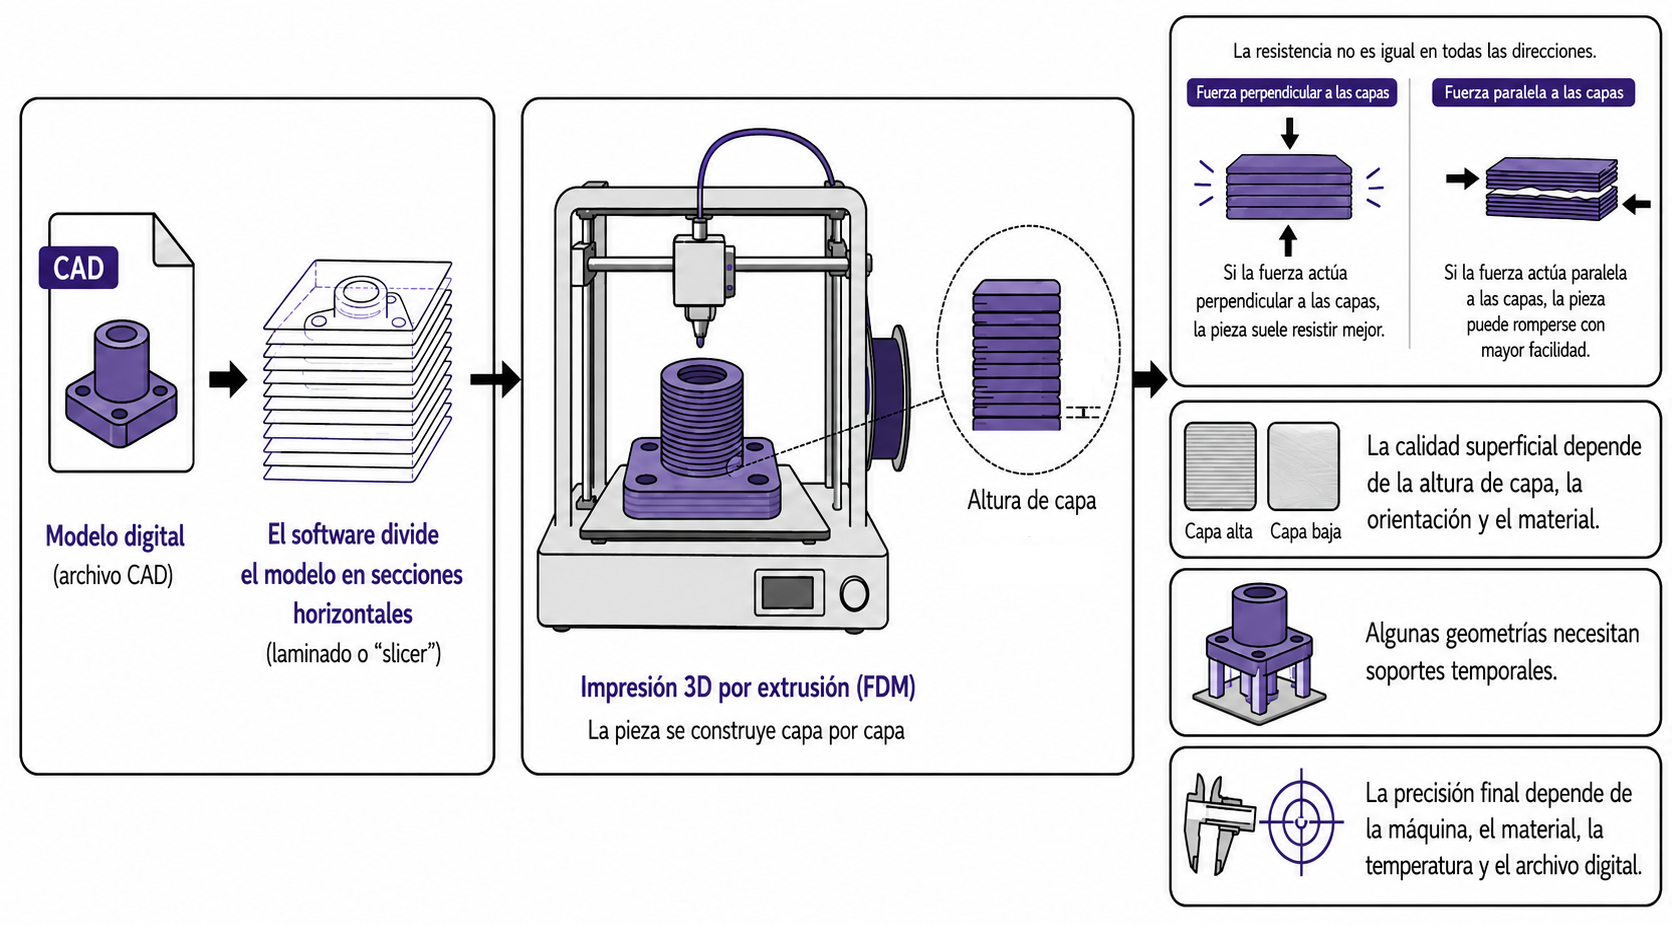
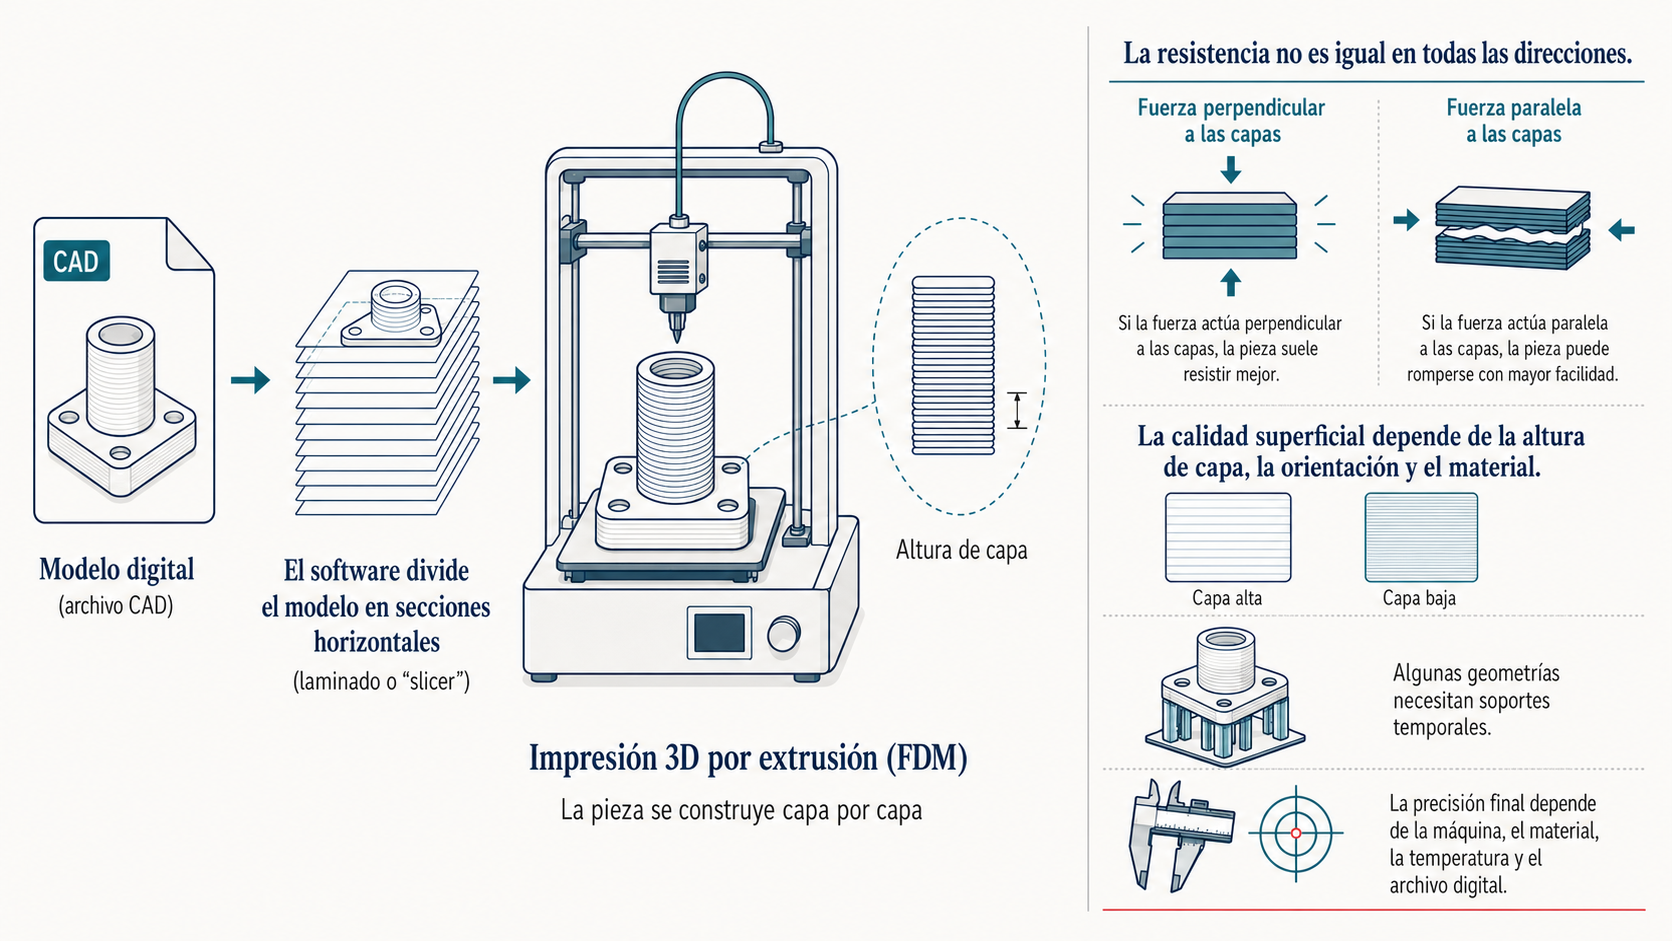
actualizacion imagenes

Changed region(s): [[0.0, 0.0, 0.9952, 0.9989], [0.0, 0.8173, 0.2799, 0.8476], [0.0311, 0.0908, 0.2799, 0.1211]]

diff --git a/manufactura-aditiva.md b/manufactura-aditiva.md
@@ -23,9 +23,19 @@ Una pieza impresa en 3D se construye por capas. El software divide el modelo en 
 
 ![capas](assets/img/intro/capas.png)
 
-## 2. Impresión 3D como herramienta de democratización tecnológica
+La impresión 3D no es la mejor tecnología para todo, pero es extraordinaria cuando el objetivo es explorar, iterar, personalizar o fabricar pocas piezas con geometrías específicas. La diferencia con otros procesos de fabricación es:
 
-La palabra “democratización” no significa que la tecnología sea trivial. Significa que más personas pueden acceder a procesos que antes estaban reservados para laboratorios industriales o empresas con maquinaria especializada.
+| Proceso | Cómo fabrica | Ventaja principal | Limitación principal |
+|---|---|---|---|
+| Impresión 3D | Agrega material capa por capa | Prototipos y personalización | Tiempo por pieza y anisotropía |
+| CNC | Retira material de un bloque | Precisión y materiales sólidos | Desperdicio y necesidad de herramienta |
+| Inyección de plástico | Llena un molde con polímero fundido | Producción masiva | Alto costo inicial de molde |
+| Corte láser | Corta o graba material plano | Rapidez en 2D | Limitado a láminas |
+| Termoformado | Deforma lámina caliente sobre molde | Bajo costo para formas simples | Geometría limitada |
+
+Un FabLab no es solamente un espacio con máquinas. Es un entorno donde se combinan diseño, fabricación, documentación y aprendizaje colaborativo. En ese contexto, la impresora 3D cumple una función especial: es una puerta de entrada rápida a la fabricación digital.
+
+A diferencia de una CNC o una cortadora láser, la impresora 3D suele requerir menos preparación inicial para fabricar una primera pieza. Esto la hace atractiva para nuevos usuarios. Sin embargo, su aparente facilidad puede ocultar la complejidad del proceso. Por eso es importante que el curso explique no solo “qué botón presionar”, sino qué decisiones técnicas están detrás de una buena impresión.
 
 Una impresora 3D de escritorio permite que un estudiante fabrique una carcasa para electrónica, que un profesor produzca modelos didácticos, que un diseñador valide una forma ergonómica, que un equipo de robótica fabrique soportes para sensores o que una persona adapte un objeto a una necesidad específica.
 
@@ -37,96 +47,42 @@ El valor de la impresión 3D en un FabLab está en cinco aspectos:
 4. **Aprendizaje:** hace visible la relación entre diseño, material, proceso y resultado.
 5. **Cultura de colaboración:** se apoya en repositorios, comunidades y documentación abierta.
 
-La impresión 3D no elimina la necesidad de conocimiento técnico. Al contrario, lo hace más visible. Cuando una pieza falla, el problema puede estar en el diseño, la orientación, el material, la temperatura, la humedad del filamento, el laminado o el estado mecánico de la impresora. Aprender impresión 3D es aprender a leer esa cadena completa.
-
-## 3. Flujo general de trabajo
-
 Aunque existen diferentes tecnologías de impresión 3D, el flujo general suele mantener una estructura común:
 
 ```text
 Idea → Modelo 3D → Archivo imprimible → Laminado → Impresión → Postprocesado → Evaluación
 ```
 
-### 3.1 Idea o necesidad
+### 1.Idea o necesidad
 
-Todo inicia con una intención: fabricar una pieza, representar una geometría, resolver una necesidad, reparar un objeto, crear un prototipo o producir un modelo didáctico.
+Intención de fabricar una pieza, representar una geometría, resolver una necesidad, reparar un objeto, crear un prototipo o producir un modelo didáctico.
 
-En un contexto de FabLab, muchas impresiones nacen de necesidades pequeñas pero valiosas: un soporte para cámara, una carcasa para ESP32, una pieza de ajuste, una cubierta, una perilla, un adaptador, una guía, un organizador o un prototipo de mecanismo.
 
-### 3.2 Modelo digital
+### 2.Modelo digital
 
-La pieza debe existir como modelo tridimensional. Puede diseñarse en CAD, descargarse de un repositorio, obtenerse por escaneo 3D o generarse con apoyo de inteligencia artificial.
+La pieza debe existir como modelo tridimensional. Puede diseñarse en CAD, descargarse de un repositorio, obtenerse por escaneo 3D o generarse con apoyo de inteligencia artificial. El modelo digital debe tener forma, escala y volumen. Para impresión 3D no basta que un objeto se vea bien en pantalla: debe poder interpretarse como un sólido fabricable.
 
-El modelo digital debe tener forma, escala y volumen. Para impresión 3D no basta que un objeto se vea bien en pantalla: debe poder interpretarse como un sólido fabricable.
+### 3.Archivo imprimible
 
-### 3.3 Archivo imprimible
+El modelo se exporta normalmente como **STL, OBJ o 3MF**. Estos formatos describen la geometría de la pieza, generalmente como una malla formada por triángulos.
 
-El modelo se exporta normalmente como STL, OBJ o 3MF. Estos formatos describen la geometría de la pieza, generalmente como una malla formada por triángulos.
-
-### 3.4 Laminado
+### 4.Laminado
 
 El software laminador, también llamado slicer, divide el modelo en capas y genera las trayectorias que la impresora debe seguir. En este paso se definen parámetros como altura de capa, porcentaje de relleno, temperatura, soportes, velocidad y orientación.
 
-### 3.5 Impresión
+### 5.Impresión
 
 La máquina ejecuta las instrucciones. En FDM, deposita filamento fundido. En resina, solidifica un fotopolímero. En SLS, fusiona polvo. Aunque la lógica de control varía, todas las tecnologías comparten la idea de construir la pieza a partir de información digital.
 
-### 3.6 Postprocesado
+### 6.Postprocesado
 
 Después de imprimir, puede ser necesario retirar soportes, lijar, curar, lavar, ensamblar, insertar tornillos, pintar o verificar dimensiones.
 
-### 3.7 Evaluación
+### 7.Evaluación
 
 La pieza se revisa de acuerdo con su propósito: apariencia, dimensiones, ajuste, resistencia, flexibilidad, ergonomía o función mecánica.
 
-## 4. Diferencia con otros procesos de fabricación
 
-| Proceso | Cómo fabrica | Ventaja principal | Limitación principal |
-|---|---|---|---|
-| Impresión 3D | Agrega material capa por capa | Prototipos y personalización | Tiempo por pieza y anisotropía |
-| CNC | Retira material de un bloque | Precisión y materiales sólidos | Desperdicio y necesidad de herramienta |
-| Inyección de plástico | Llena un molde con polímero fundido | Producción masiva | Alto costo inicial de molde |
-| Corte láser | Corta o graba material plano | Rapidez en 2D | Limitado a láminas |
-| Termoformado | Deforma lámina caliente sobre molde | Bajo costo para formas simples | Geometría limitada |
-
-Esta comparación ayuda a ubicar la impresión 3D en su lugar correcto. No es la mejor tecnología para todo, pero es extraordinaria cuando el objetivo es explorar, iterar, personalizar o fabricar pocas piezas con geometrías específicas.
-
-## 5. Ventajas técnicas y educativas
-
-La impresión 3D tiene valor técnico porque conecta distintas áreas del conocimiento:
-
-- diseño geométrico;
-- ciencia de materiales;
-- control de movimiento;
-- transferencia de calor;
-- electrónica;
-- software;
-- mecánica;
-- manufactura;
-- documentación técnica.
-
-También tiene valor educativo porque transforma conceptos abstractos en objetos manipulables. Una superficie matemática, una molécula, una pieza mecánica, un robot, una prótesis didáctica o una estructura arquitectónica pueden imprimirse y discutirse físicamente.
-
-## 6. Limitaciones que conviene conocer desde el inicio
-
-Invitar a usar la tecnología no significa ocultar sus límites. La impresión 3D tiene restricciones reales:
-
-- Las piezas FDM suelen mostrar líneas de capa.
-- La resistencia entre capas puede ser menor que dentro de una misma capa.
-- La calidad depende mucho de la orientación de impresión.
-- No todas las geometrías se imprimen sin soportes.
-- Los materiales tienen comportamiento térmico y mecánico diferente.
-- La humedad puede degradar el filamento.
-- La repetibilidad requiere mantenimiento y perfiles bien configurados.
-- La producción masiva sigue favoreciendo procesos como inyección de plástico.
-
-Conocer estos límites mejora el uso de la tecnología. Una persona que entiende las restricciones de impresión diseña mejores piezas, desperdicia menos material y obtiene resultados más consistentes.
-
-## 7. La impresión 3D dentro del ecosistema FabLab
-
-Un FabLab no es solamente un espacio con máquinas. Es un entorno donde se combinan diseño, fabricación, documentación y aprendizaje colaborativo. En ese contexto, la impresora 3D cumple una función especial: es una puerta de entrada rápida a la fabricación digital.
-
-A diferencia de una CNC o una cortadora láser, la impresora 3D suele requerir menos preparación inicial para fabricar una primera pieza. Esto la hace atractiva para nuevos usuarios. Sin embargo, su aparente facilidad puede ocultar la complejidad del proceso. Por eso es importante que el curso explique no solo “qué botón presionar”, sino qué decisiones técnicas están detrás de una buena impresión.
 
 ## Referencias
 